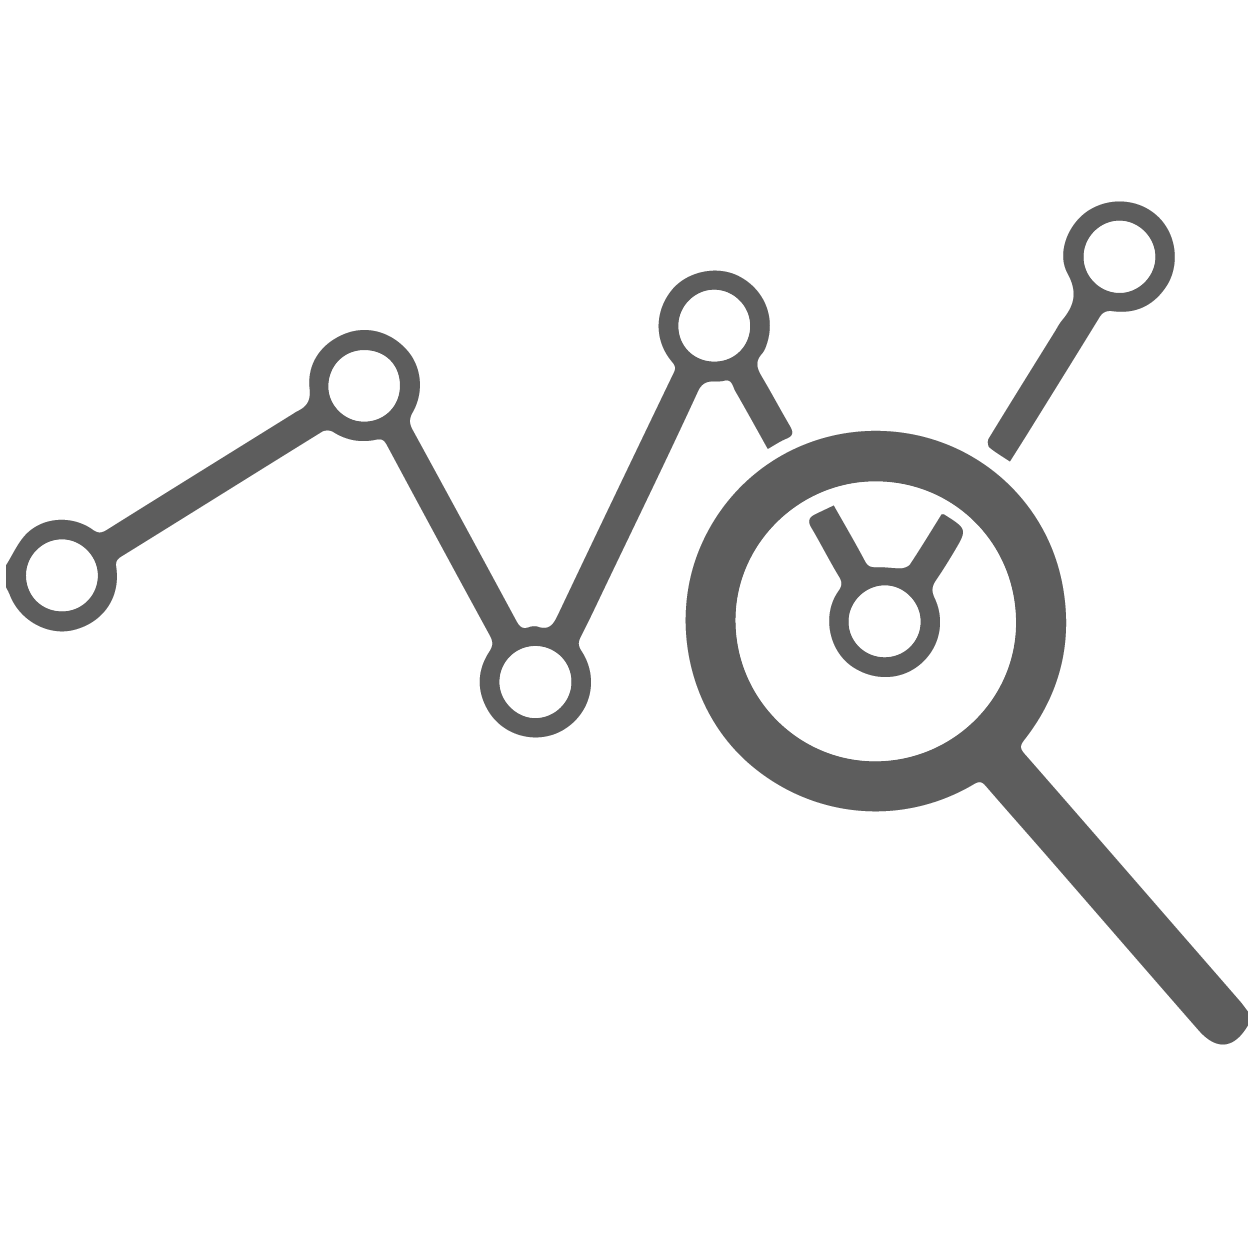
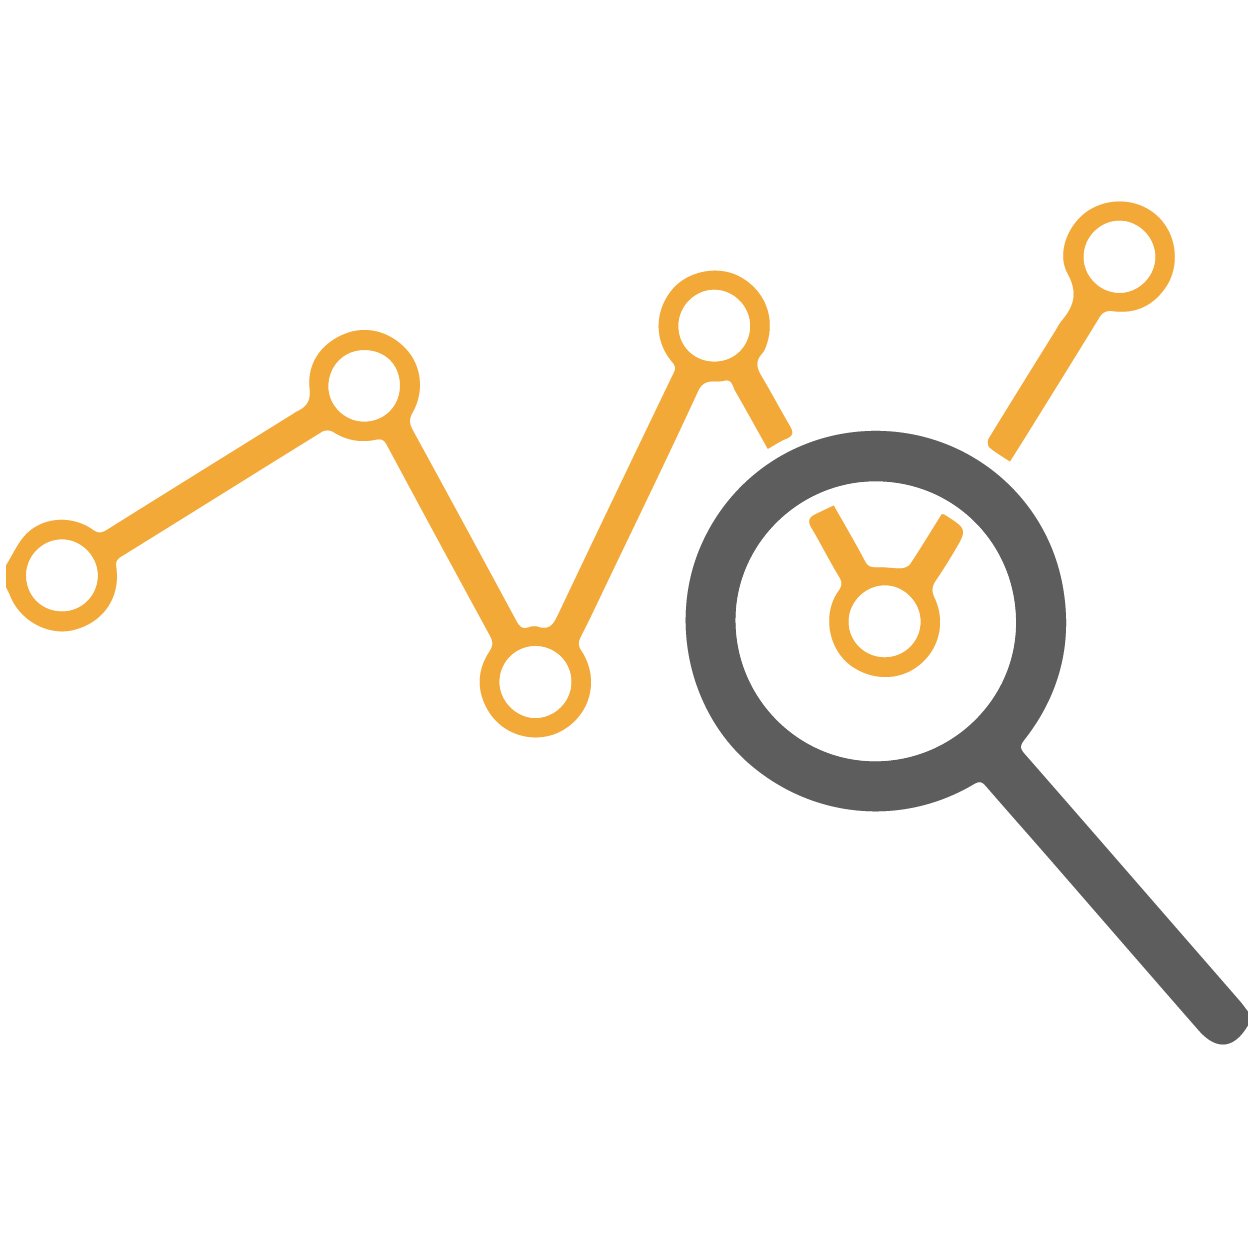
v3

Changed region(s): [[0.0, 0.2184, 0.624, 0.5928], [0.78, 0.156, 0.9672, 0.3744], [0.624, 0.4056, 0.78, 0.5616]]

diff --git a/index.html b/index.html
@@ -100,7 +100,7 @@
                 </h2>
             </div>
             <div class="col-md-12" id="how">
-                <img src="images/search-icon.png" alt="search" style="width:8%;height:8%;margin-bottom: 2%;">
+                <img src="images/search-icon-01.png" alt="search" style="width:8%;height:8%;margin-bottom: 2%;">
                 <h3>Who? Why? What? How?</h3>
 
                 <p><b>“If I had an hour to solve a problem I'd spend 55 minutes thinking about the problem and 5 minutes thinking about solutions.” ― Albert Einstein.</b></br>
